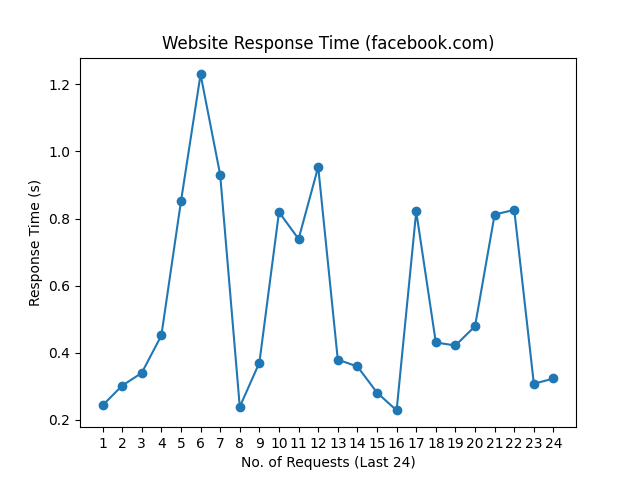
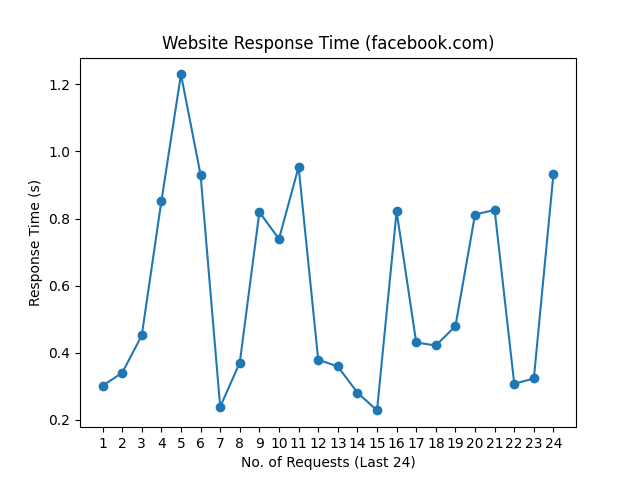
update README.md, history and graph

Changed region(s): [[0.1562, 0.125, 0.875, 0.875]]

diff --git a/README.md b/README.md
@@ -1,10 +1,10 @@
 # Web Monitoring
 
-Last Checked: 23/04/2024 09:02
+Last Checked: 24/04/2024 09:02
 
 | Website | Response Time (s) | Status | Avg Uptime (%) |
 |---------|-------------------|--------|----------------|
 | www.thiswebsiteisdown.net | 0 <br> <img src="graph/thiswebsiteisdown.net.png" alt="Graph" width="200" height="200">  | ❌ Down | 0.00 |
-| www.netflix.com | 0.439180 <br> <img src="graph/netflix.com.png" alt="Graph" width="200" height="200">  | ✅ Up | 100.00 |
-| www.google.com | 0.178855 <br> <img src="graph/google.com.png" alt="Graph" width="200" height="200">  | ✅ Up | 100.00 |
-| www.facebook.com | 0.323016 <br> <img src="graph/facebook.com.png" alt="Graph" width="200" height="200">  | ✅ Up | 100.00 |
+| www.netflix.com | 1.002729 <br> <img src="graph/netflix.com.png" alt="Graph" width="200" height="200">  | ✅ Up | 100.00 |
+| www.google.com | 0.246318 <br> <img src="graph/google.com.png" alt="Graph" width="200" height="200">  | ✅ Up | 100.00 |
+| www.facebook.com | 0.933881 <br> <img src="graph/facebook.com.png" alt="Graph" width="200" height="200">  | ✅ Up | 100.00 |
